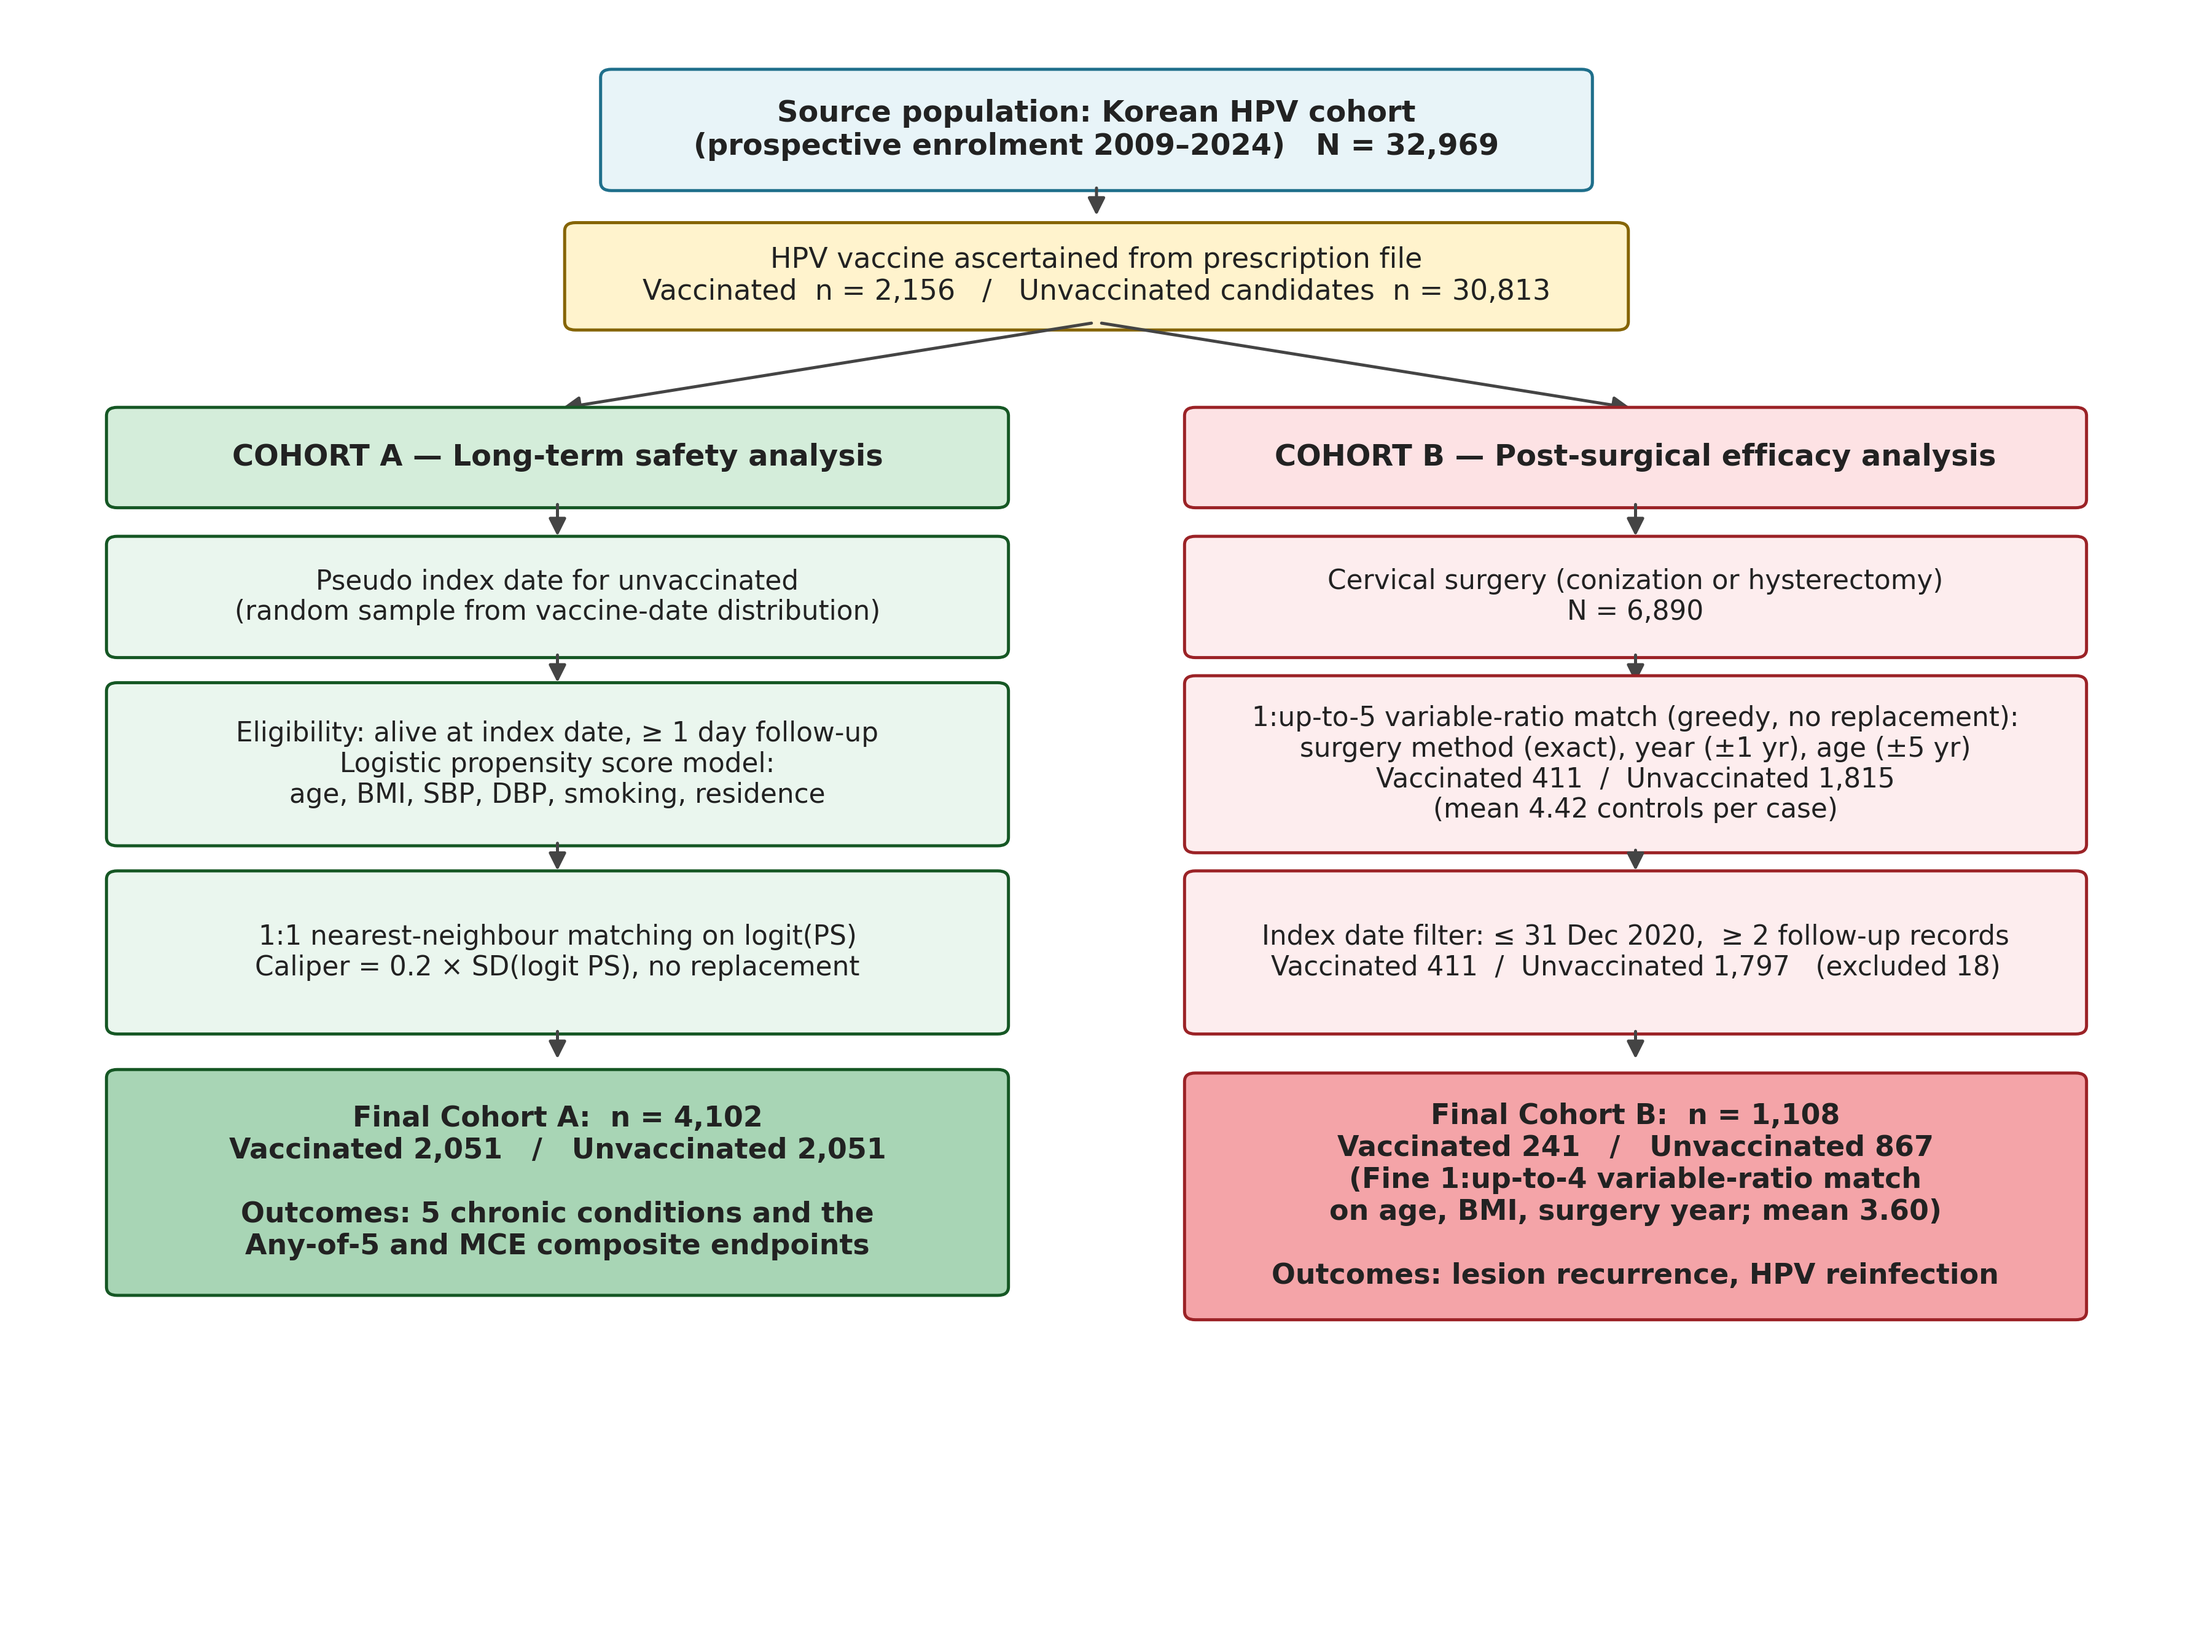
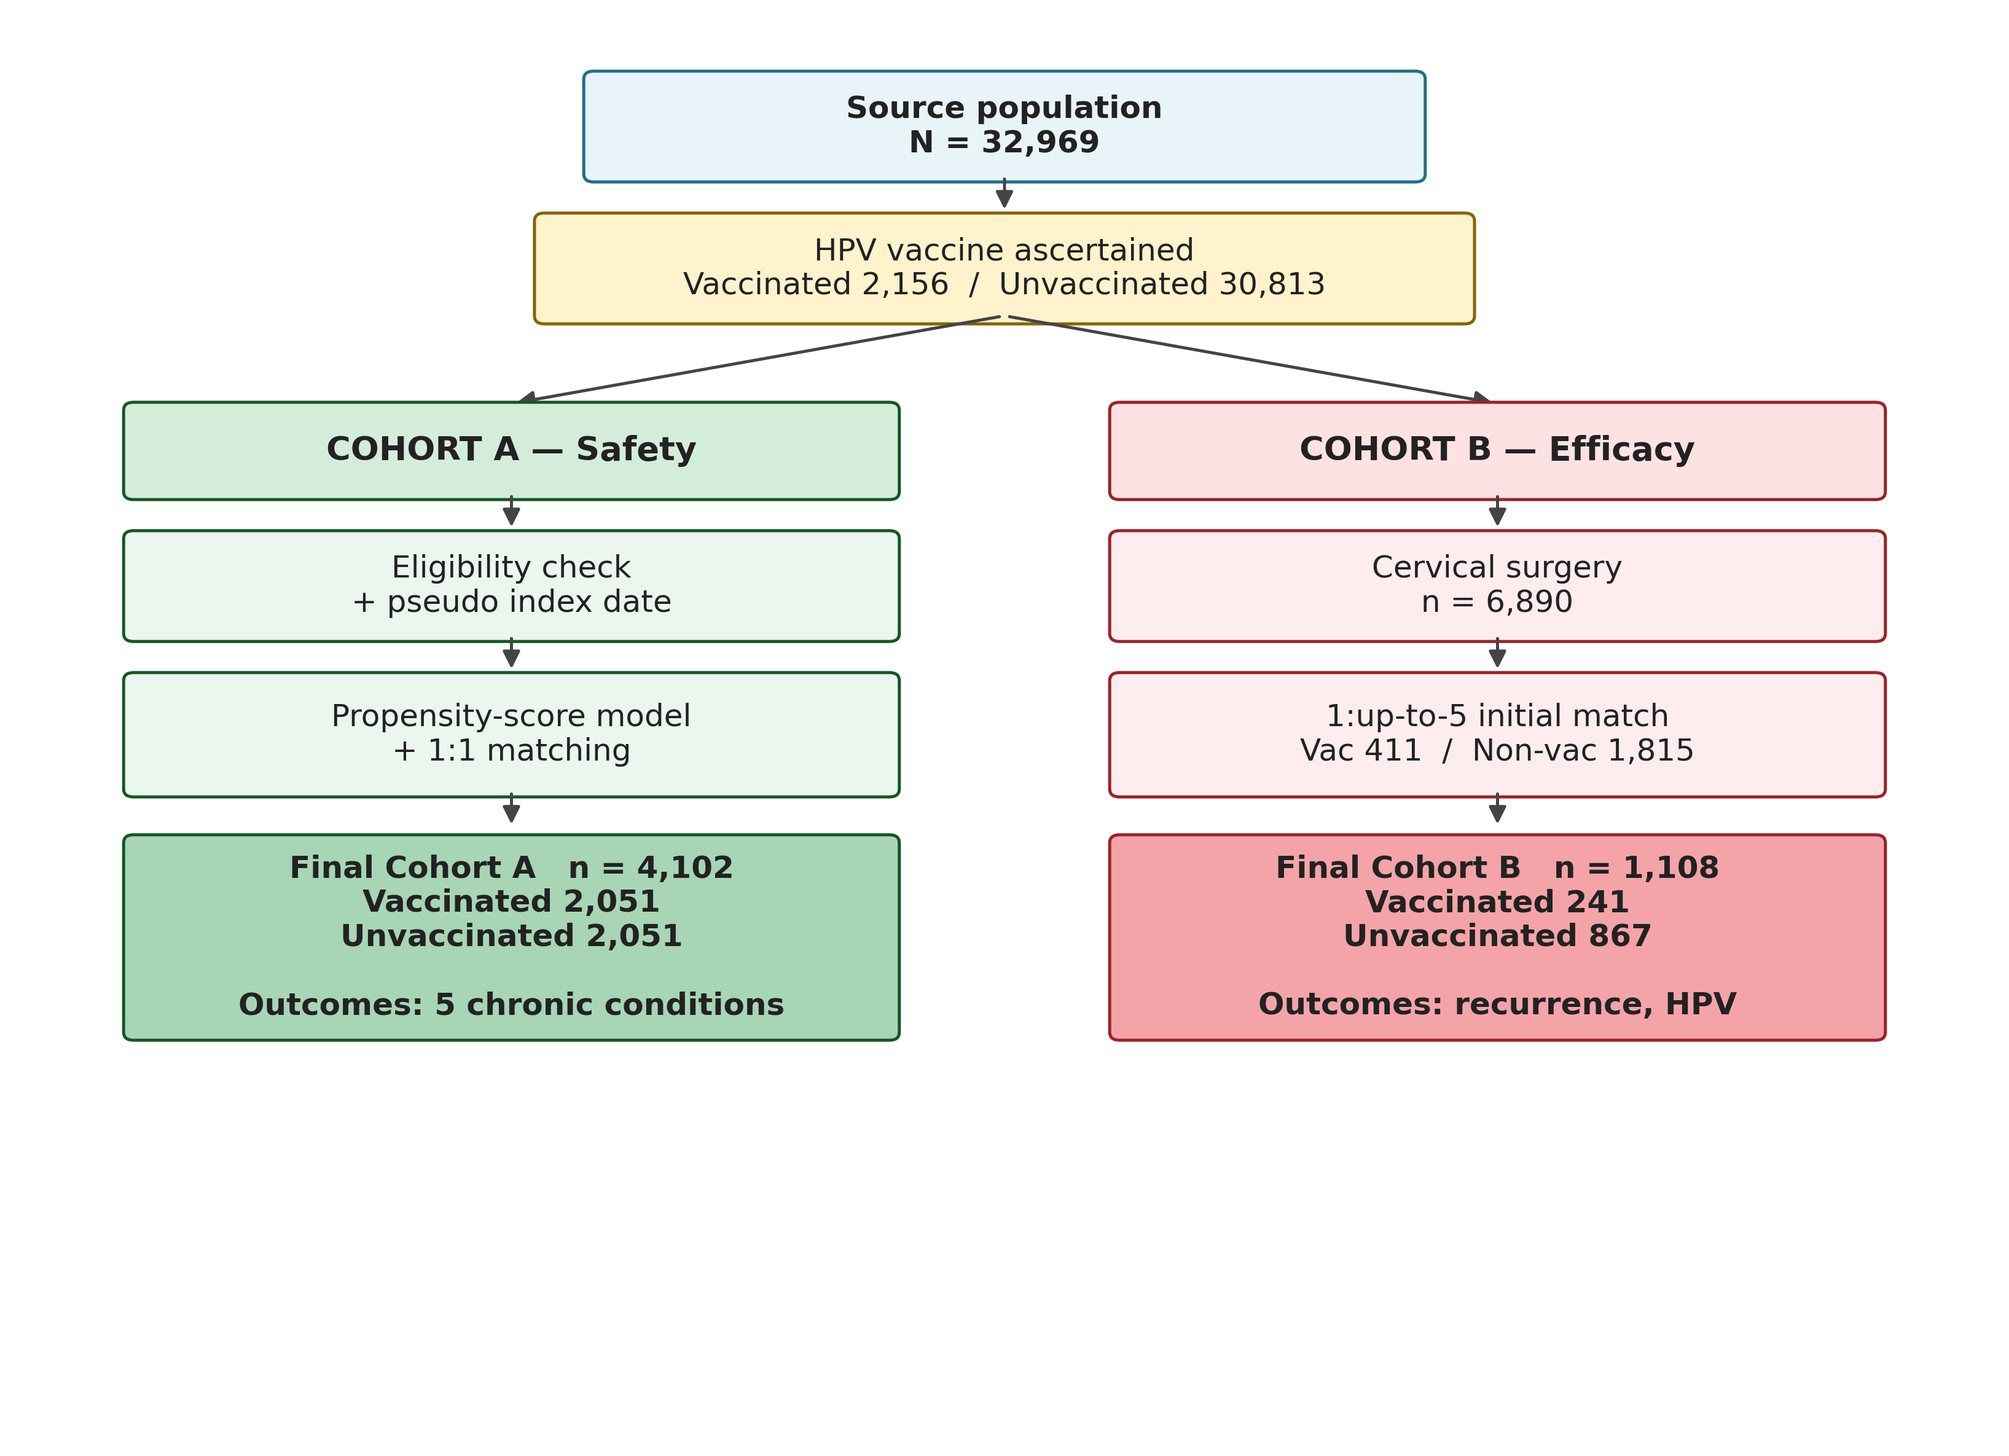
Simplify Figure 1 boxes and add editable PowerPoint version
The figure-legend caption (docs/Figure1_Note.md) carries the full
methodological detail (drug-name + drug-code ascertainment, PSM
caliper, variable-ratio matching, mean realized ratios, eligibility
filters), so the in-figure boxes are now reduced to step labels and
n's only:

  Source population (32,969)
  HPV vaccine ascertained (2,156 / 30,813)
  Cohort A — Safety
    Eligibility check + pseudo index date
    Propensity-score model + 1:1 matching
    Final n = 4,102 / outcomes
  Cohort B — Efficacy
    Cervical surgery (6,890)
    1:up-to-5 initial match (411 / 1,815)
    Final n = 1,108 / outcomes

Also add an editable PowerPoint version
(Data/Figure1_CohortSelection.pptx) generated from
scripts/make_figure1_pptx.py via python-pptx. Each step is a rounded
rectangle whose text is editable in PowerPoint, arrows are connectors,
colours mirror the PNG. Slide is 13.33 x 7.5 in (16:9) for inclusion
in submission decks; 10 text boxes and 9 arrows total.

Changed region(s): [[0.0312, 0.0312, 0.967, 0.8118], [0.0312, 0.3747, 0.0624, 0.4371]]

diff --git a/scripts/make_figure1_pptx.py b/scripts/make_figure1_pptx.py
@@ -1,0 +1,168 @@
+"""
+Editable PowerPoint version of Figure 1 (cohort selection flow).
+
+Each step is a rounded rectangle with editable text; arrows connect them.
+The slide mirrors the layout/colours of Data/Figure1_CohortSelection.png so
+that text edits in PowerPoint produce a consistent figure.
+
+Output: Data/Figure1_CohortSelection.pptx
+"""
+from pptx import Presentation
+from pptx.util import Inches, Pt, Emu
+from pptx.dml.color import RGBColor
+from pptx.enum.shapes import MSO_SHAPE, MSO_CONNECTOR
+from pptx.enum.text import PP_ALIGN, MSO_ANCHOR
+
+# ---------------------------------------------------------------------------
+# Layout (inches) — landscape slide 13.33 × 7.5 (16:9 widescreen)
+# ---------------------------------------------------------------------------
+SLIDE_W, SLIDE_H = 13.33, 7.5
+BOX_W, BOX_H_S, BOX_H_M, BOX_H_L = 4.7, 0.7, 0.85, 1.6
+LEFT_X, RIGHT_X = 3.0, 8.6  # centres of the two columns
+CENTER_X = (LEFT_X + RIGHT_X) / 2
+
+# Vertical row centres
+ROW_SOURCE  = 0.55
+ROW_VACC    = 1.30
+ROW_HEADER  = 2.20
+ROW_STEP1   = 3.10
+ROW_STEP2   = 4.10
+ROW_FINAL   = 5.65
+
+# Colours
+RGB_SOURCE  = RGBColor(0xE8, 0xF4, 0xF8)
+RGB_SRC_BR  = RGBColor(0x1F, 0x6F, 0x97)
+RGB_VACC    = RGBColor(0xFF, 0xF3, 0xCD)
+RGB_VAC_BR  = RGBColor(0x85, 0x64, 0x04)
+RGB_A_HEAD  = RGBColor(0xD4, 0xED, 0xDA)
+RGB_A_BR    = RGBColor(0x15, 0x57, 0x24)
+RGB_A_STEP  = RGBColor(0xEA, 0xF6, 0xEE)
+RGB_A_FIN   = RGBColor(0xA8, 0xD5, 0xB5)
+RGB_B_HEAD  = RGBColor(0xFD, 0xE2, 0xE4)
+RGB_B_BR    = RGBColor(0x9B, 0x22, 0x26)
+RGB_B_STEP  = RGBColor(0xFD, 0xED, 0xEE)
+RGB_B_FIN   = RGBColor(0xF4, 0xA4, 0xA8)
+RGB_TEXT    = RGBColor(0x22, 0x22, 0x22)
+RGB_ARROW   = RGBColor(0x44, 0x44, 0x44)
+
+# ---------------------------------------------------------------------------
+# Build presentation
+# ---------------------------------------------------------------------------
+prs = Presentation()
+prs.slide_width  = Inches(SLIDE_W)
+prs.slide_height = Inches(SLIDE_H)
+slide = prs.slides.add_slide(prs.slide_layouts[6])  # blank layout
+
+
+def add_box(cx, cy, w, h, lines, fill, edge, *, fs_first=14, fs_rest=12,
+            bold_first=False, bold_all=False):
+    """Add a rounded rectangle whose text is the given list of lines."""
+    left = Inches(cx - w / 2); top = Inches(cy - h / 2)
+    shape = slide.shapes.add_shape(
+        MSO_SHAPE.ROUNDED_RECTANGLE, left, top, Inches(w), Inches(h))
+    shape.fill.solid(); shape.fill.fore_color.rgb = fill
+    shape.line.color.rgb = edge
+    shape.line.width = Pt(1.25)
+    tf = shape.text_frame
+    tf.word_wrap = True
+    tf.vertical_anchor = MSO_ANCHOR.MIDDLE
+    tf.margin_left = Inches(0.10); tf.margin_right = Inches(0.10)
+    tf.margin_top  = Inches(0.05); tf.margin_bottom = Inches(0.05)
+    for i, line in enumerate(lines):
+        if i == 0:
+            p = tf.paragraphs[0]
+        else:
+            p = tf.add_paragraph()
+        p.alignment = PP_ALIGN.CENTER
+        run = p.add_run(); run.text = line
+        run.font.name = 'Calibri'
+        run.font.size = Pt(fs_first if i == 0 else fs_rest)
+        run.font.color.rgb = RGB_TEXT
+        run.font.bold = bold_all or (i == 0 and bold_first)
+    return shape
+
+
+def add_arrow(x1, y1, x2, y2):
+    """Add a straight downward arrow between two (x, y) points (inches)."""
+    line = slide.shapes.add_connector(
+        MSO_CONNECTOR.STRAIGHT,
+        Inches(x1), Inches(y1), Inches(x2), Inches(y2))
+    line.line.color.rgb = RGB_ARROW
+    line.line.width = Pt(1.3)
+    # Add arrowhead at end
+    from pptx.oxml.ns import qn
+    ln = line.line._get_or_add_ln()
+    tail = ln.find(qn('a:tailEnd'))
+    if tail is None:
+        from lxml import etree
+        tail = etree.SubElement(ln, qn('a:tailEnd'))
+    tail.set('type', 'triangle'); tail.set('w', 'med'); tail.set('len', 'med')
+
+
+# ---------- Source + ascertainment ----------
+add_box(CENTER_X, ROW_SOURCE, 5.0, BOX_H_S,
+        ['Source population', 'N = 32,969'],
+        RGB_SOURCE, RGB_SRC_BR, fs_first=15, fs_rest=14, bold_first=True)
+add_arrow(CENTER_X, ROW_SOURCE + BOX_H_S/2,
+          CENTER_X, ROW_VACC   - BOX_H_S/2)
+
+add_box(CENTER_X, ROW_VACC, 5.6, BOX_H_S,
+        ['HPV vaccine ascertained',
+         'Vaccinated 2,156  /  Unvaccinated 30,813'],
+        RGB_VACC, RGB_VAC_BR, fs_first=14, fs_rest=13)
+
+# Branch arrows
+add_arrow(CENTER_X, ROW_VACC + BOX_H_S/2,
+          LEFT_X,   ROW_HEADER - BOX_H_S/2)
+add_arrow(CENTER_X, ROW_VACC + BOX_H_S/2,
+          RIGHT_X,  ROW_HEADER - BOX_H_S/2)
+
+# ---------- Cohort headers ----------
+add_box(LEFT_X, ROW_HEADER, BOX_W, BOX_H_S,
+        ['COHORT A — Safety'],
+        RGB_A_HEAD, RGB_A_BR, fs_first=16, bold_first=True)
+add_box(RIGHT_X, ROW_HEADER, BOX_W, BOX_H_S,
+        ['COHORT B — Efficacy'],
+        RGB_B_HEAD, RGB_B_BR, fs_first=16, bold_first=True)
+
+# ---------- Cohort A steps ----------
+add_arrow(LEFT_X, ROW_HEADER + BOX_H_S/2, LEFT_X, ROW_STEP1 - BOX_H_S/2)
+add_box(LEFT_X, ROW_STEP1, BOX_W, BOX_H_S,
+        ['Eligibility check', '+ pseudo index date'],
+        RGB_A_STEP, RGB_A_BR, fs_first=14, fs_rest=14)
+add_arrow(LEFT_X, ROW_STEP1 + BOX_H_S/2, LEFT_X, ROW_STEP2 - BOX_H_M/2)
+add_box(LEFT_X, ROW_STEP2, BOX_W, BOX_H_M,
+        ['Propensity-score model', '+ 1:1 matching'],
+        RGB_A_STEP, RGB_A_BR, fs_first=14, fs_rest=14)
+add_arrow(LEFT_X, ROW_STEP2 + BOX_H_M/2, LEFT_X, ROW_FINAL - BOX_H_L/2)
+add_box(LEFT_X, ROW_FINAL, BOX_W, BOX_H_L,
+        ['Final Cohort A   n = 4,102',
+         'Vaccinated 2,051',
+         'Unvaccinated 2,051',
+         '',
+         'Outcomes: 5 chronic conditions'],
+        RGB_A_FIN, RGB_A_BR, fs_first=15, fs_rest=13, bold_first=True)
+
+# ---------- Cohort B steps ----------
+add_arrow(RIGHT_X, ROW_HEADER + BOX_H_S/2, RIGHT_X, ROW_STEP1 - BOX_H_S/2)
+add_box(RIGHT_X, ROW_STEP1, BOX_W, BOX_H_S,
+        ['Cervical surgery', 'n = 6,890'],
+        RGB_B_STEP, RGB_B_BR, fs_first=14, fs_rest=14)
+add_arrow(RIGHT_X, ROW_STEP1 + BOX_H_S/2, RIGHT_X, ROW_STEP2 - BOX_H_M/2)
+add_box(RIGHT_X, ROW_STEP2, BOX_W, BOX_H_M,
+        ['1:up-to-5 initial match',
+         'Vac 411  /  Non-vac 1,815'],
+        RGB_B_STEP, RGB_B_BR, fs_first=14, fs_rest=14)
+add_arrow(RIGHT_X, ROW_STEP2 + BOX_H_M/2, RIGHT_X, ROW_FINAL - BOX_H_L/2)
+add_box(RIGHT_X, ROW_FINAL, BOX_W, BOX_H_L,
+        ['Final Cohort B   n = 1,108',
+         'Vaccinated 241',
+         'Unvaccinated 867',
+         '',
+         'Outcomes: recurrence, HPV'],
+        RGB_B_FIN, RGB_B_BR, fs_first=15, fs_rest=13, bold_first=True)
+
+# ---------- Save ----------
+out_path = 'Data/Figure1_CohortSelection.pptx'
+prs.save(out_path)
+print(f'Saved: {out_path}')

diff --git a/scripts/make_main_figures.py b/scripts/make_main_figures.py
@@ -108,11 +108,13 @@ def smoke_vec(query_df, ci):
 # Figure 1 — Cohort selection flow
 # =====================================================================
 def figure1():
-    fig, ax = plt.subplots(figsize=(12, 9))
-    ax.set_xlim(0, 12); ax.set_ylim(0, 11.5)
+    """Concise CONSORT flow. Detailed methodology lives in the figure-legend
+    note (docs/Figure1_Note.md), so the boxes carry only step labels and n's."""
+    fig, ax = plt.subplots(figsize=(11, 8))
+    ax.set_xlim(0, 12); ax.set_ylim(0, 10.5)
     ax.axis('off')
 
-    def box(x, y, w, h, text, fc='#ffffff', ec=COL_GREY, fs=11, weight='normal'):
+    def box(x, y, w, h, text, fc='#ffffff', ec=COL_GREY, fs=12, weight='normal'):
         rect = FancyBboxPatch((x-w/2, y-h/2), w, h, boxstyle='round,pad=0.06',
                               facecolor=fc, edgecolor=ec, linewidth=1.2)
         ax.add_patch(rect)
@@ -124,85 +126,63 @@ def figure1():
                            mutation_scale=14, color='#444', lw=1.2)
         ax.add_patch(a)
 
-    box(6, 10.7, 5.4, 0.75,
-        'Source population: Korean HPV cohort\n'
-        '(prospective enrolment 2009–2024)   N = 32,969',
-        fc='#e8f4f8', ec='#1f6f8b', fs=11.5, weight='bold')
+    # Source
+    box(6, 9.7, 5.0, 0.7,
+        'Source population\nN = 32,969',
+        fc='#e8f4f8', ec='#1f6f8b', fs=12, weight='bold')
 
-    arrow(6, 10.32, 6, 10.05)
-    box(6, 9.65, 5.8, 0.65,
-        'HPV vaccine ascertained from prescription file\n'
-        f'Vaccinated  n = 2,156   /   Unvaccinated candidates  n = 30,813',
-        fc='#fff3cd', ec='#856404', fs=11)
+    arrow(6, 9.35, 6, 9.05)
+    box(6, 8.65, 5.6, 0.7,
+        'HPV vaccine ascertained\n'
+        'Vaccinated 2,156  /  Unvaccinated 30,813',
+        fc='#fff3cd', ec='#856404', fs=12)
 
-    arrow(6, 9.32, 3.0, 8.7)
-    arrow(6, 9.32, 9.0, 8.7)
+    arrow(6, 8.30, 3.0, 7.65)
+    arrow(6, 8.30, 9.0, 7.65)
 
-    # Cohort A header (left)
-    box(3.0, 8.35, 4.9, 0.6,
-        'COHORT A — Long-term safety analysis',
-        fc='#d4edda', ec='#155724', fs=11.5, weight='bold')
+    # Cohort A header
+    box(3.0, 7.30, 4.6, 0.6,
+        'COHORT A — Safety',
+        fc='#d4edda', ec='#155724', fs=13, weight='bold')
 
-    # Cohort B header (right)
-    box(9.0, 8.35, 4.9, 0.6,
-        'COHORT B — Post-surgical efficacy analysis',
-        fc='#fde2e4', ec='#9b2226', fs=11.5, weight='bold')
+    # Cohort B header
+    box(9.0, 7.30, 4.6, 0.6,
+        'COHORT B — Efficacy',
+        fc='#fde2e4', ec='#9b2226', fs=13, weight='bold')
 
-    # === Cohort A steps ===
-    arrow(3.0, 8.05, 3.0, 7.75)
-    box(3.0, 7.35, 4.9, 0.75,
-        'Pseudo index date for unvaccinated\n(random sample from vaccine-date distribution)',
-        fc='#eaf6ee', ec='#155724', fs=10.5)
+    # === Cohort A steps (concise) ===
+    arrow(3.0, 7.00, 3.0, 6.70)
+    box(3.0, 6.30, 4.6, 0.7,
+        'Eligibility check\n+ pseudo index date',
+        fc='#eaf6ee', ec='#155724', fs=12)
 
-    arrow(3.0, 6.97, 3.0, 6.7)
-    box(3.0, 6.15, 4.9, 1.05,
-        'Eligibility: alive at index date, ≥ 1 day follow-up\n'
-        'Logistic propensity score model:\n'
-        'age, BMI, SBP, DBP, smoking, residence',
-        fc='#eaf6ee', ec='#155724', fs=10.5)
+    arrow(3.0, 5.95, 3.0, 5.65)
+    box(3.0, 5.20, 4.6, 0.8,
+        'Propensity-score model\n+ 1:1 matching',
+        fc='#eaf6ee', ec='#155724', fs=12)
 
-    arrow(3.0, 5.62, 3.0, 5.35)
-    box(3.0, 4.8, 4.9, 1.05,
-        '1:1 nearest-neighbour matching on logit(PS)\n'
-        'Caliper = 0.2 × SD(logit PS), no replacement',
-        fc='#eaf6ee', ec='#155724', fs=10.5)
+    arrow(3.0, 4.80, 3.0, 4.50)
+    box(3.0, 3.70, 4.6, 1.4,
+        'Final Cohort A   n = 4,102\nVaccinated 2,051\nUnvaccinated 2,051\n\n'
+        'Outcomes: 5 chronic conditions',
+        fc='#a8d5b5', ec='#155724', fs=12, weight='bold')
 
-    arrow(3.0, 4.27, 3.0, 4.0)
-    box(3.0, 3.15, 4.9, 1.5,
-        'Final Cohort A:  n = 4,102\n'
-        'Vaccinated 2,051   /   Unvaccinated 2,051\n\n'
-        'Outcomes: 5 chronic conditions and the\n'
-        'Any-of-5 and MCE composite endpoints',
-        fc='#a8d5b5', ec='#155724', fs=11, weight='bold')
+    # === Cohort B steps (concise) ===
+    arrow(9.0, 7.00, 9.0, 6.70)
+    box(9.0, 6.30, 4.6, 0.7,
+        'Cervical surgery\nn = 6,890',
+        fc='#fdedee', ec='#9b2226', fs=12)
 
-    # === Cohort B steps ===
-    arrow(9.0, 8.05, 9.0, 7.75)
-    box(9.0, 7.35, 4.9, 0.75,
-        'Cervical surgery (conization or hysterectomy)\nN = 6,890',
-        fc='#fdedee', ec='#9b2226', fs=10.5)
+    arrow(9.0, 5.95, 9.0, 5.65)
+    box(9.0, 5.20, 4.6, 0.8,
+        '1:up-to-5 initial match\nVac 411  /  Non-vac 1,815',
+        fc='#fdedee', ec='#9b2226', fs=12)
 
-    arrow(9.0, 6.97, 9.0, 6.7)
-    box(9.0, 6.15, 4.9, 1.15,
-        '1:up-to-5 variable-ratio match (greedy, no replacement):\n'
-        'surgery method (exact), year (±1 yr), age (±5 yr)\n'
-        'Vaccinated 411  /  Unvaccinated 1,815\n'
-        '(mean 4.42 controls per case)',
-        fc='#fdedee', ec='#9b2226', fs=10.5)
-
-    arrow(9.0, 5.57, 9.0, 5.35)
-    box(9.0, 4.8, 4.9, 1.05,
-        'Index date filter: ≤ 31 Dec 2020,  ≥ 2 follow-up records\n'
-        'Vaccinated 411  /  Unvaccinated 1,797   (excluded 18)',
-        fc='#fdedee', ec='#9b2226', fs=10.5)
-
-    arrow(9.0, 4.27, 9.0, 4.0)
-    box(9.0, 3.05, 4.9, 1.65,
-        'Final Cohort B:  n = 1,108\n'
-        'Vaccinated 241   /   Unvaccinated 867\n'
-        '(Fine 1:up-to-4 variable-ratio match\n'
-        'on age, BMI, surgery year; mean 3.60)\n\n'
-        'Outcomes: lesion recurrence, HPV reinfection',
-        fc='#f4a4a8', ec='#9b2226', fs=11, weight='bold')
+    arrow(9.0, 4.80, 9.0, 4.50)
+    box(9.0, 3.70, 4.6, 1.4,
+        'Final Cohort B   n = 1,108\nVaccinated 241\nUnvaccinated 867\n\n'
+        'Outcomes: recurrence, HPV',
+        fc='#f4a4a8', ec='#9b2226', fs=12, weight='bold')
 
     plt.tight_layout()
     plt.savefig('Data/Figure1_CohortSelection.png', dpi=300, bbox_inches='tight', facecolor='white')
